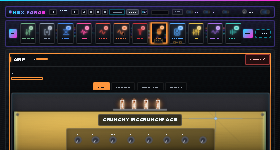
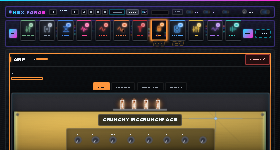
Amp 2/Cab 2 strips -> stacked mini-tiles below the parent tiles (user feedback)

Changed region(s): [[0.0571, 0.1067, 0.8571, 0.32]]

diff --git a/lv2/modgui-hexforge/stylesheet-hexforge.css b/lv2/modgui-hexforge/stylesheet-hexforge.css
@@ -256,8 +256,10 @@
     box-shadow: 0 0 10px rgba(120,90,255,.4);
 }
 .mod-pedal-guitaramp-hexforge{{{cns}}} .hf-nodes {
-    flex: 1 1 auto; min-width: 0; position: relative; display: flex; flex-wrap: nowrap; align-items: center;
-    gap: 12px; height: 122px; padding: 0 6px;
+    /* 148px tall with top-anchored tiles (2026-07-30): leaves a 30px band under the
+       108px tiles for the stacked Amp 2 / Cab 2 mini-tiles. */
+    flex: 1 1 auto; min-width: 0; position: relative; display: flex; flex-wrap: nowrap; align-items: flex-start;
+    gap: 12px; height: 148px; padding: 10px 6px 0;
     /* when there are too many nodes to fit, scroll horizontally (scrollbar hidden globally),
        so the last node is always reachable instead of being clipped off the end */
     overflow-x: auto; overflow-y: hidden; scrollbar-width: none;
@@ -270,7 +272,7 @@
    (Supersedes the old ::before/::after zig-zag — removing their shared `content` here stops
    those pseudo-elements from rendering; the now-inert rules below are harmless.) */
 .mod-pedal-guitaramp-hexforge{{{cns}}} .hf-helix {
-    position: absolute; left: 4px; right: 4px; top: 50%; height: 104px; transform: translateY(-52px);
+    position: absolute; left: 4px; right: 4px; top: 64px; height: 104px; transform: translateY(-52px);
     z-index: 0; pointer-events: none;
 }
 /* The ORIGINAL animation (the console code), made efficient. It's the SAME 4 dashed strands +
@@ -975,23 +977,24 @@
   margin-left: 12px; font-size: 10px; letter-spacing: 0.05em;
   color: rgba(126, 231, 255, 0.7); align-self: center;
 }
-/* ── Amp 2 / Cab 2 strips (2026-07-30 final): docked tags straddling the parent
-   tile's bottom edge — absolutely positioned INSIDE the tile so every DOM move
-   (drag, palette, resort) carries them, with zero effect on the tile's own
-   layout. The ±7px protrusion exactly fills .hf-nodes' 122−108 slack. ───────── */
+/* ── Amp 2 / Cab 2 mini-tiles (2026-07-30 final): stacked UNDERNEATH the parent
+   tile — still absolutely positioned INSIDE the tile's DOM so every move (drag,
+   palette, resort) carries them, but rendered fully below the tile box (top:
+   100% + gap). .hf-nodes grows to 146px to give the stack room. ─────────────── */
 .mod-pedal-guitaramp-hexforge{{{cns}}} .hf-subnode {
-  position: absolute; bottom: -7px; left: 14px; right: 14px; z-index: 3;
-  font-size: 8px; letter-spacing: 0.08em; text-align: center; cursor: pointer;
-  padding: 2px 0; border-radius: 5px; color: rgba(240,168,53,0.95);
-  background: #1a1610; border: 1px solid rgba(240,168,53,0.6);
-  box-shadow: 0 0 6px rgba(240,168,53,0.25), 0 2px 5px rgba(0,0,0,0.5);
+  position: absolute; top: calc(100% + 4px); left: 6px; right: 6px; z-index: 3;
+  font-size: 9px; letter-spacing: 0.1em; text-align: center; cursor: pointer;
+  padding: 3px 0; border-radius: 7px; color: rgba(240,168,53,0.95);
+  background-color: #171410;
+  background-image: linear-gradient(180deg, rgba(255,255,255,.07), rgba(0,0,0,.4));
+  border: 1px solid rgba(240,168,53,0.55); border-top: 2px solid rgba(240,168,53,0.85);
+  box-shadow: 0 0 7px rgba(240,168,53,0.22), 0 3px 8px rgba(0,0,0,0.5);
 }
-.mod-pedal-guitaramp-hexforge{{{cns}}} .hf-node[data-block="amp"] .hf-cpu-badge,
-.mod-pedal-guitaramp-hexforge{{{cns}}} .hf-node[data-block="cab"] .hf-cpu-badge { bottom: 10px; }
 .mod-pedal-guitaramp-hexforge{{{cns}}} .hf-palette .hf-subnode { display: none; }
 .mod-pedal-guitaramp-hexforge{{{cns}}} .hf-subnode.hf-subnode-off {
-  color: rgba(240,168,53,0.4); border-style: dashed;
-  border-color: rgba(240,168,53,0.28); background: #14171f; box-shadow: 0 2px 5px rgba(0,0,0,0.4);
+  color: rgba(240,168,53,0.4); border-style: dashed; border-top-width: 1px;
+  border-color: rgba(240,168,53,0.3); background-color: #12151c; background-image: none;
+  box-shadow: 0 3px 8px rgba(0,0,0,0.4);
 }
 .mod-pedal-guitaramp-hexforge{{{cns}}} .hf-subnode:hover { background: rgba(240,168,53,0.22); }
 .mod-pedal-guitaramp-hexforge{{{cns}}} .hf-subnode.hf-sel { outline: 1px solid rgba(240,168,53,0.9); }
